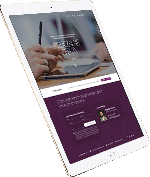
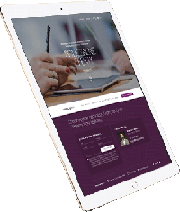
section clients complete

diff --git a/app/index.html b/app/index.html
@@ -62,52 +62,64 @@
             </div>
         </section>
         <!-- CLIENTS -->
-        <!-- <section class="clients"> 
+        <section class="clients"> 
           <h2 class="header modifier">Clients</h2>
-            <div class="slideshow-container">          
+            <div class="slideshow-container">    
               <div class="mySlides fade">
                 <div class="slide">
-                  <div><picture>
+                  <div class="slide-img"><picture>
                     <source media="(min-width: 650px)" srcset="../images/tablet.png">
                     <img srcset="../images/tablet-sm.png" alt="" style="width:auto;">
-                  </picture></div>
-                  <svg class="quote margin" version="1" xmlns="http://www.w3.org/2000/svg" width="37.333" height="30.667" viewBox="0 0 28 23"><path d="M2.8 1.1C1.6 1.7 1 3.3 1 5.6c0 2.7.5 3.7 2.5 4.6 3.2 1.4 3.2 3.3-.1 6.3C1.3 18.5 1 19.2 2 21l1.1 2.1 3-2.1C10 18.1 12 14 12 8.5c0-6.8-4.3-10.3-9.2-7.4zM18.8 1.1c-1.2.6-1.8 2.2-1.8 4.5 0 2.7.5 3.7 2.5 4.6 3.2 1.4 3.2 3.3-.1 6.3-2.1 2-2.4 2.7-1.4 4.5l1.1 2.1 3-2.1C26 18.1 28 14 28 8.5c0-6.8-4.3-10.3-9.2-7.4z"/></svg>
-                  <div><p class="clients__text">Lorem ipsum dolor sit amet, consectetur adipiscing elit, sed do eiusmod tempor incididunt ut labore et dolore magna aliqua.</p>
-                  <p class="clients__mail">Project Manager / <a href="/">Infinity-group.pl</a></p>
-                  <a href="/" class="clients__btn">web design</a>
-                  <a href="/" class="clients__btn">usability</a>
-                  <a href="/" class="clients__btn">e-commerce</a></div>
+                  </picture></div>                
+                  <div class="slide-element">
+                    <svg class="quote margin" version="1" xmlns="http://www.w3.org/2000/svg" width="37.333" height="30.667" viewBox="0 0 28 23"><path d="M2.8 1.1C1.6 1.7 1 3.3 1 5.6c0 2.7.5 3.7 2.5 4.6 3.2 1.4 3.2 3.3-.1 6.3C1.3 18.5 1 19.2 2 21l1.1 2.1 3-2.1C10 18.1 12 14 12 8.5c0-6.8-4.3-10.3-9.2-7.4zM18.8 1.1c-1.2.6-1.8 2.2-1.8 4.5 0 2.7.5 3.7 2.5 4.6 3.2 1.4 3.2 3.3-.1 6.3-2.1 2-2.4 2.7-1.4 4.5l1.1 2.1 3-2.1C26 18.1 28 14 28 8.5c0-6.8-4.3-10.3-9.2-7.4z"/></svg>
+                    <div>
+                    <p class="clients__text">Lorem ipsum dolor sit amet, consectetur adipiscing elit, sed do eiusmod tempor incididunt ut labore et dolore magna aliqua.</p>
+                      <p class="clients__mail">Project Manager / <a href="/">Infinity-group.pl</a></p>
+                      <a href="/" class="clients__btn">web design</a>
+                      <a href="/" class="clients__btn">usability</a>
+                      <a href="/" class="clients__btn">e-commerce</a>
+                    </div>   
+                  </div>
                 </div>
               </div>
-            
+        
               <div class="mySlides fade">
                 <div class="slide">
-                  <div><picture>
+                  <div class="slide-img"><picture>
                     <source media="(min-width: 650px)" srcset="../images/tablet.png">
                     <img srcset="../images/tablet-sm.png" alt="" style="width:auto;">
-                  </picture></div>
-                  <svg class="quote margin" version="1" xmlns="http://www.w3.org/2000/svg" width="37.333" height="30.667" viewBox="0 0 28 23"><path d="M2.8 1.1C1.6 1.7 1 3.3 1 5.6c0 2.7.5 3.7 2.5 4.6 3.2 1.4 3.2 3.3-.1 6.3C1.3 18.5 1 19.2 2 21l1.1 2.1 3-2.1C10 18.1 12 14 12 8.5c0-6.8-4.3-10.3-9.2-7.4zM18.8 1.1c-1.2.6-1.8 2.2-1.8 4.5 0 2.7.5 3.7 2.5 4.6 3.2 1.4 3.2 3.3-.1 6.3-2.1 2-2.4 2.7-1.4 4.5l1.1 2.1 3-2.1C26 18.1 28 14 28 8.5c0-6.8-4.3-10.3-9.2-7.4z"/></svg>
-                  <div><p class="clients__text">Lorem ipsum dolor sit amet, consectetur adipiscing elit, sed do eiusmod tempor incididunt ut labore et dolore magna aliqua.</p>
-                  <p class="clients__mail">Project Manager / <a href="/">Infinity-group.pl</a></p>
-                  <a href="/" class="clients__btn">web design</a>
-                  <a href="/" class="clients__btn">usability</a>
-                  <a href="/" class="clients__btn">e-commerce</a></div>
+                  </picture></div>                
+                  <div class="slide-element">
+                    <svg class="quote margin" version="1" xmlns="http://www.w3.org/2000/svg" width="37.333" height="30.667" viewBox="0 0 28 23"><path d="M2.8 1.1C1.6 1.7 1 3.3 1 5.6c0 2.7.5 3.7 2.5 4.6 3.2 1.4 3.2 3.3-.1 6.3C1.3 18.5 1 19.2 2 21l1.1 2.1 3-2.1C10 18.1 12 14 12 8.5c0-6.8-4.3-10.3-9.2-7.4zM18.8 1.1c-1.2.6-1.8 2.2-1.8 4.5 0 2.7.5 3.7 2.5 4.6 3.2 1.4 3.2 3.3-.1 6.3-2.1 2-2.4 2.7-1.4 4.5l1.1 2.1 3-2.1C26 18.1 28 14 28 8.5c0-6.8-4.3-10.3-9.2-7.4z"/></svg>
+                    <div>
+                    <p class="clients__text">Lorem ipsum dolor sit amet, consectetur adipiscing elit, sed do eiusmod tempor incididunt ut labore et dolore magna aliqua.</p>
+                      <p class="clients__mail">Project Manager / <a href="/">Infinity-group.pl</a></p>
+                      <a href="/" class="clients__btn">web design</a>
+                      <a href="/" class="clients__btn">usability</a>
+                      <a href="/" class="clients__btn">e-commerce</a>
+                    </div>   
+                  </div>
                 </div>
               </div>
-            
-            
+        
+        
               <div class="mySlides fade">
                 <div class="slide">
-                  <div><picture>
+                  <div class="slide-img"><picture>
                     <source media="(min-width: 650px)" srcset="../images/tablet.png">
                     <img srcset="../images/tablet-sm.png" alt="" style="width:auto;">
-                  </picture></div>
-                  <svg class="quote margin" version="1" xmlns="http://www.w3.org/2000/svg" width="37.333" height="30.667" viewBox="0 0 28 23"><path d="M2.8 1.1C1.6 1.7 1 3.3 1 5.6c0 2.7.5 3.7 2.5 4.6 3.2 1.4 3.2 3.3-.1 6.3C1.3 18.5 1 19.2 2 21l1.1 2.1 3-2.1C10 18.1 12 14 12 8.5c0-6.8-4.3-10.3-9.2-7.4zM18.8 1.1c-1.2.6-1.8 2.2-1.8 4.5 0 2.7.5 3.7 2.5 4.6 3.2 1.4 3.2 3.3-.1 6.3-2.1 2-2.4 2.7-1.4 4.5l1.1 2.1 3-2.1C26 18.1 28 14 28 8.5c0-6.8-4.3-10.3-9.2-7.4z"/></svg>
-                  <div><p class="clients__text">Lorem ipsum dolor sit amet, consectetur adipiscing elit, sed do eiusmod tempor incididunt ut labore et dolore magna aliqua.</p>
-                  <p class="clients__mail">Project Manager / <a href="/">Infinity-group.pl</a></p>
-                  <a href="/" class="clients__btn">web design</a>
-                  <a href="/" class="clients__btn">usability</a>
-                  <a href="/" class="clients__btn">e-commerce</a></div>
+                  </picture></div>                
+                  <div class="slide-element">
+                    <svg class="quote margin" version="1" xmlns="http://www.w3.org/2000/svg" width="37.333" height="30.667" viewBox="0 0 28 23"><path d="M2.8 1.1C1.6 1.7 1 3.3 1 5.6c0 2.7.5 3.7 2.5 4.6 3.2 1.4 3.2 3.3-.1 6.3C1.3 18.5 1 19.2 2 21l1.1 2.1 3-2.1C10 18.1 12 14 12 8.5c0-6.8-4.3-10.3-9.2-7.4zM18.8 1.1c-1.2.6-1.8 2.2-1.8 4.5 0 2.7.5 3.7 2.5 4.6 3.2 1.4 3.2 3.3-.1 6.3-2.1 2-2.4 2.7-1.4 4.5l1.1 2.1 3-2.1C26 18.1 28 14 28 8.5c0-6.8-4.3-10.3-9.2-7.4z"/></svg>
+                    <div>
+                    <p class="clients__text">Lorem ipsum dolor sit amet, consectetur adipiscing elit, sed do eiusmod tempor incididunt ut labore et dolore magna aliqua.</p>
+                      <p class="clients__mail">Project Manager / <a href="/">Infinity-group.pl</a></p>
+                      <a href="/" class="clients__btn">web design</a>
+                      <a href="/" class="clients__btn">usability</a>
+                      <a href="/" class="clients__btn">e-commerce</a>
+                    </div>   
+                  </div>
                 </div>
               </div>
             <br>
@@ -117,11 +129,9 @@
               <span class="dot"></span> 
             </div>
           </div>
-          <div class="position position--modifier">
-            <h6>2/5</h6>
-          </div>            
+
         </section>
-        <section class="products">
+        <!-- <section class="products">
           <h2 class="header">Products</h2>
           <p class="text">Sed ut perspiciatis unde omnis iste natus error sit voluptatem</p>
             <div class="products__element">

diff --git a/app/styles/_clients.scss b/app/styles/_clients.scss
@@ -10,55 +10,89 @@
         height: auto;
     }
     &__text {
+      color: #3c3c3c;
+      font-family: 'Mada', sans-serif;
       margin-top: 50px;
-      font-size: 14px;
-      padding-bottom: 30px;
+      font-size: 16px;
+      padding-bottom: 25px;
       align-items: center;
+      line-height: 1.2;
       @media only screen and (min-width: 880px) {
         margin-top: 50px;
-        font-size: 22px;
-        padding-bottom: 30px;
+        font-size: 30px;
       }
     }
     &__mail {
-      font-size: 12px;
-      padding-bottom: 35px;
+      font-family: 'Mada', sans-serif;
+      font-weight: 300;
+      font-size: 16px;
+      padding-bottom: 20px;
+      color: #3c3c3c;
       @media only screen and (min-width: 880px) {
-        font-size: 16px;
+        font-size: 22px;
+        padding-bottom: 35px;
       }
       a {
+        font-family: 'Mada', sans-serif;
+        font-weight: 300;
         color: #fff;
         text-decoration: underline;
+        font-size: 16px;
+        @media only screen and (min-width: 880px) {
+          font-size: 22px;
+        }
       }
     }
     &__btn {
+      font-family: 'Mada', sans-serif;
+      font-weight: 300;
       color: #fff;
       background-color: transparent;
       text-decoration: none;
       font-size: 12px;
-      padding: 5px 10px;
+      padding: 4px 8px;
       border: 1px solid #fff;
       text-align: center;
-    }
+      width: 70px;
+      @media only screen and (min-width: 880px) {
+        font-size: 15px;
+      }
+}
+
+.slide-element {
+  display: grid;
+  grid-template-columns: 20px auto;
+  grid-column-gap: 10px;
+  @media only screen and (min-width: 880px) {
+    grid-column-gap: 20px;
+  }
 }
 
 /* Slideshow container */
 .slideshow-container {
-    max-width: 1000px;
+    max-width: 930px;
     position: relative;
     margin: auto;
+    padding: 0 10% 0 5%;
+    @media only screen and (min-width: 880px) {
+      padding: 0;
+    }
   }
   
   
   /* The dots/bullets/indicators */
   .dot {
-    height: 15px;
-    width: 15px;
+    height: 7px;
+    width: 7px;
     margin: 0 2px;
     background-color: #add6b1;
     border-radius: 50%;
     display: inline-block;
     transition: background-color 0.6s ease;
+    @media only screen and (min-width: 880px) {
+      height: 15px;
+      width: 15px;
+    }
   }
   
   .active {
@@ -82,9 +116,22 @@
     from {opacity: .4} 
     to {opacity: 1}
   }
+}
  
   .slide {
     display: grid;
-    grid-template-columns: 310px 15px auto 35px;
-    grid-column-gap: 10px;
+    grid-template-columns: 1fr;
+    justify-items: center;
+    @media only screen and (min-width: 880px) {
+      grid-template-columns: 350px auto;
+    }
+  }
+
+  .slide-img {
+    padding-top: 20px;
+    padding-right: 10%;
+    margin-bottom: -20px;
+    @media only screen and (min-width: 880px) {
+      padding-right: 0;
+    }
   }

diff --git a/app/styles/_mission.scss b/app/styles/_mission.scss
@@ -8,7 +8,7 @@
     &__element {
         align-content: center;
         display: grid;
-        grid-template-columns: 20px auto 30px;
+        grid-template-columns: 20px auto;
         grid-column-gap: 5px;
         padding: 5% 15% 5% 5%;
         @media only screen and (min-width: 880px) {

diff --git a/app/styles/_hero.scss b/app/styles/_hero.scss
@@ -20,7 +20,7 @@
 
   .title {
       color: #2d2d2d;
-      font-size: 28px;
+      font-size: 38px;
       text-transform: uppercase;
       font-weight: light;
       padding-bottom: 100px;

diff --git a/app/styles/_utilities.scss b/app/styles/_utilities.scss
@@ -36,7 +36,7 @@
 }
 
 .header {
-    font-size: 25px;
+    font-size: 32px;
     text-align: center;
     color: #2d2d2d;
     font-family: 'Homenaje', sans-serif;
